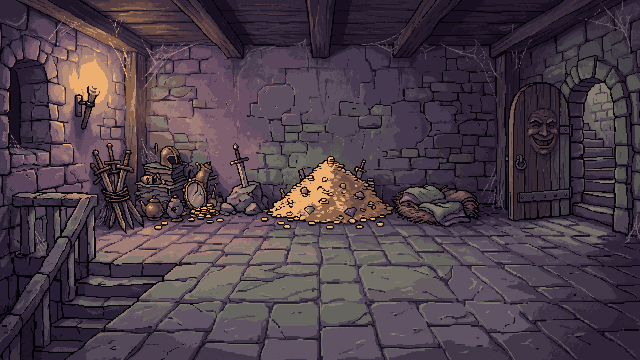
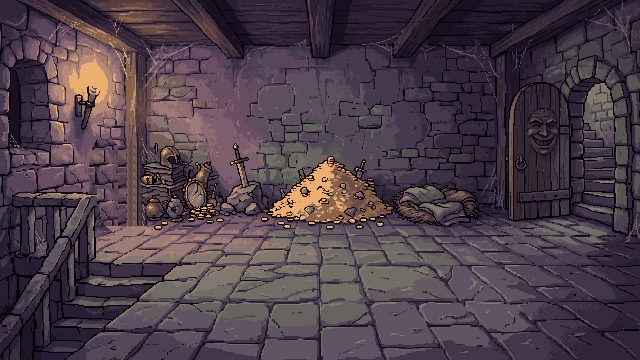
Welt 1: restliche Figuren und Nacharbeiten vor dem Review
Grammophon wieder im Original (Sebastians Wunsch), Wasserschloss bleibt neu.
Gollo, Moderwort, Zeldina, Waldemar: Gang mit schwingendem Saum und gegenläufigen Füßen im Takt des 3D-Gangs.
Toadi: Gang mit Beinwinkeln aus 3D; Schmiede-Ziege und XXL-Ziege: Gang mit vier Beinen.
Abstellkammern: gemaltes Schwerter-Bündel ist jetzt das Prop, dahinter Wand und Pfosten übermalt.
Bergwerk: neue Fackelflammen mit warmem Schein. Zauberwald: Riesenpilze farbiger.
Bildschirmfoto-Referenzen für Prolog und Welt 1 erneuert.

Changed region(s): [[0.125, 0.3667, 0.25, 0.6722]]

diff --git a/docs/offene-punkte.md b/docs/offene-punkte.md
@@ -53,14 +53,14 @@ Jede Änderung, die nach dem Gemini-Bild von Hand oder per Skript gemacht wurde,
 | Taverne | Tresen als Vordergrund-Teil `grafik/props/tresen_vorn.png` (0, 160, 256, 200), Baseline 245, ausgeschnitten über ein Vieleck entlang der hinteren Tresenkante; Humbert steht dahinter (150, 232), Gollo davor (282, 264) | Skript, Layout `vordergrund:` | Kante sauber freistellen; Krüge, Flasche und Schüssel ragen über die Kante und liegen hinter Humbert **Erledigt 14. November 2026: Flaschenhals, Dampf und Krugrand aus dem Hintergrund ins Vordergrund-Teil übernommen; Kante selbst unverändert.** |
 | Luftschloss, `w1_bg_luftschloss_v01.png` | Breitbild aus zwei Gemini-Bildern (`luftschloss_sebastian_links_v1`, `_rechts_v1`), Naht an der Turmkante bei x 640, Boden 40 Pixel überblendet, rechte Hälfte farblich leicht angeglichen (`luftschloss_breit_v1.png`) | Skript | Naht im Boden und in den Wolken bei x 640 nacharbeiten; beide Hälften haben leicht unterschiedlichen Strich **Erledigt 14. November 2026: senkrechte Bodenlinie bei x 637–642 entfernt, Wolkenbank aus sieben Bäuschen über die Naht gelegt (weiß, unten rosa wie links).** |
 | Turmkeller, `w1_bg_turmkeller_v01.png` und `_zu_v01.png` | Beide Fassungen mit gemeinsamer Palette (40 Farben); die Zu-Fassung ist die offene mit eingesetzter Tür (492, 80 bis 628, 232) aus Sebastians zweitem Bild | Skript | Türkante prüfen; gemalte Besen an der Wand gegen die Zauberbesen-Sprites abgrenzen |
-| Smaugis Abstellkammern, `w1_bg_abstellkammern_v01.png` und `_aufgeraeumt_v01.png` | Gemeinsame Palette; in der aufgeräumten Fassung Goldhaufen und Nest (262, 150 bis 478, 232) aus der vollen Fassung eingesetzt; Schwerter-Bündel ist im Kram-Haufen gemalt und liegt zusätzlich als Prop darüber | Skript | Gemaltes Schwerter-Bündel übermalen, damit nach dem Nehmen nichts doppelt ist; Kronleuchter an die Decke hängen |
+| Smaugis Abstellkammern, `w1_bg_abstellkammern_v01.png` und `_aufgeraeumt_v01.png` | Gemeinsame Palette; in der aufgeräumten Fassung Goldhaufen und Nest (262, 150 bis 478, 232) aus der vollen Fassung eingesetzt; Schwerter-Bündel ist im Kram-Haufen gemalt und liegt zusätzlich als Prop darüber | Skript | Gemaltes Schwerter-Bündel übermalen, damit nach dem Nehmen nichts doppelt ist; Kronleuchter an die Decke hängen **Erledigt 14. November 2026: Das gemalte Bündel ist jetzt das Prop selbst (ausgeschnitten, 60×100 an 88, 137), dahinter Steinwand und Pfosten übermalt. Der Kronleuchter hängt bereits am Deckenbalken.** |
 | Nahansichten Hinweiszettel, Zeugnis, Kritzelei | Schrift per Skript in Pixelify Sans (`tools/nahansichten_welt1_schrift.py`), deutsch; Noten im Zeugnis als Ziffern, weil die Felder zu schmal sind; Strichmännchen ohne Nase auf der Kritzelei von Hand gezeichnet | Skript | Handschrift in Aseprite schöner setzen; englische Fassung der Bilder fehlt (Text ist ins Bild gemalt); Max sagt beim Zettel „Stern mit Hut“, gemalt ist ein lächelnder Kessel |
 | Figuren Moderwort, Zeldina, Maklerin, Max als Pilz | Neu umgerechnet ohne Palettenzwang (`--palette keine`), weil Endesga Grün und Violett verschluckt hat; Moderwort aus Sebastians zweiter Fassung (junger Mann, keine Nase) | `figur.py sprite` | Farben auf die Spielpalette bringen, ohne dass Hautgrün und Robenviolett verloren gehen |
 | Deko Welt 1 | Sammelbild geschnitten (`grafik/props/`): Kokosnüsse im Stall (Dorfplatz 345, 224), Socke auf dem Hocker (Klassenzimmer 402, 202), Glasschuh am Kürbisturm (Zauberwald 770, 214), Hufeisen in der Zange auf dem Amboss (Schmiede 262, 194), Kaffeemaschine (Bergwerk); Hammer, Tagebuch, Okarina liegen bereit (Hammer für das Hämmern, die anderen für Thronsaal und Kammern) | Skript `tools/karo_weg.py` (gemaltes Schachbrett entfernen), `figur.py gegenstaende` | Größen und Lage prüfen; Hufeisen-Zange ragt über den Amboss |
 | Niesrosen, Bohnenranke | Niesrosen zu (vor R7) und offen (nach R7) in der Lichtung (714, 256), Bohnenranke nach R8 auf dem Erdfleck (785, 258, 83×258); Rosen nach der Palette rot statt rosa; weiße Flecken in der Ranke durch Nachbarfarbe ersetzt | Layout `vordergrund:` mit `vor:`/`nach:` | Rosen rosa nachfärben; Ranke oben an die Wolkenkante des Luftschlosses anpassen; Wachs- und Aufgeh-Animation fehlen **Rosen rosa: erledigt 14. November 2026 (beide Sprites, Streupixel entfernt). Offen: Ranke an die Wolkenkante, Animationen.** |
 | Smaugis Kram | Icons `gegenstaende/schwerter_buendel`, `fackel_buendel`, `kronleuchter`; Raum-Sprites gleichen Namens in `props/` und sechs Deko-Stücke `props/kram_*` für die Kammer (Raum noch Platzhalter) | `figur.py gegenstaende` | Beim Einbau der Kammer platzieren |
 | Klassenzimmer | Schüler auf dem Besen (`props/schueler_besen.png`, 18×15) fliegt als lebendiger Hintergrund ab und zu rückwärts am linken Fenster vorbei, nur innerhalb der Scheibe (182, 40, 42, 70) gezeichnet | `CQAmbiente`, Baustein `schueler` | Wirkt er hinter dem Glas? Eventuell bläulich tönen |
-| Troll-Brücke | Grammophon und Notenblätter nachgefärbt, Bereich 250, 212 bis 288, 266 | Skript, 6 Zusatzfarben | Grammophon sauber nachzeichnen, goldenes Horn deutlich **Erledigt 14. November 2026: Grammophon neu gezeichnet (Holzkasten auf der Moosinsel, Hals, goldener Trichter mit dunkler Öffnung), alter Trichter übermalt.** |
+| Troll-Brücke | Grammophon und Notenblätter nachgefärbt, Bereich 250, 212 bis 288, 266 | Skript, 6 Zusatzfarben | Grammophon sauber nachzeichnen, goldenes Horn deutlich **Entschieden 14. November 2026: Das Original bleibt; Sebastian fand Kontrast, Farben, Lage und Einbettung besser als zwei neu gezeichnete Fassungen.** |
 | Troll-Brücke | Wasserschloss rosa nachgezeichnet, Bereich 428, 124 bis 448, 140 | Skript, Umriss aus dem Original, 4 Rosatöne | Form des Schlosses von Hand verbessern **Erledigt 14. November 2026: Schloss neu gezeichnet (Mittelturm mit Spitzdach, zwei Seitentürme, Zinnenmauer, Tor; Licht von links).** |
 | Troll-Brücke | Waldemar steht als Platzhalter rechts der Brücke (440, 275) | Layout | Mit echtem Sprite prüfen, ob er Rampe oder Schloss verdeckt |
 | Klassenzimmer, `w1_bg_klassenzimmer_v01.png` | Grundlage: Sebastians Fassung mit Kessel unter dem Fenster und Bänken vor der Tafel (`klassenzimmer_sebastian_v7.png`, aus dem Chat-Bild „Unterricht5“ mit drei Fenstern) | Gemini-Chat, sechs Runden (Aufteilung, Seiten tauschen, Regal leeren, Neuaufteilung, zwei Fenster dazu) | – |
@@ -78,7 +78,7 @@ Jede Änderung, die nach dem Gemini-Bild von Hand oder per Skript gemacht wurde,
 | Zauberwald, `w1_bg_zauberwald_v01.png` | Breitbild 1066×360: rechts Sebastians erste Fassung (`zauberwald_sebastian_v1.jpeg`), links ein tieferer Waldteil (`zauberwald_sebastian_links_v2.jpeg`), zusammengesetzt als `zauberwald_breit_v2.png` | Gemini-Chat: Vorlage mit grauer Fläche ergänzen lassen, dann Boden freigeräumt; Naht um 8 Pixel ausgerichtet, 60 Pixel weich überblendet | Naht im dicken Baum prüfen (Spielpixel um x 421) |
 | Zauberwald | Dicker Baum auf der Naht als Vordergrund-Prop `grafik/props/alter_baum.png` (340, 0, 150, 360), Umriss als Vieleck freigestellt, Baseline am unteren Rand | Skript | Umriss sauber freistellen; prüfen, ob Max dahinter natürlich verschwindet **Erledigt 14. November 2026: Himmel und Hintergrund links und rechts des Stamms bis Zeile 250 entfernt (Kante je Zeile am dunklen Rindenumriss); Farn rechts bleibt.** |
 | Zauberwald | Weggabelung hinter dem dicken Baum (alter Weg zur Brücke) entfernt: Sebastian hat den linken Waldteil in Gemini ohne die Abzweigung neu machen lassen (`zauberwald_sebastian_links_v4.jpeg`); Naht jetzt bei Spielpixel x 609, rechts der Riesenpilze, 60 Pixel überblendet (`zauberwald_breit_v2.png`) | Gemini-Chat | Naht neben den Riesenpilzen prüfen **Erledigt 14. November 2026: gerade Kante des Himmelsflecks bei x 611 (Zeilen 66–111) wellig aufgelöst.** |
-| Zauberwald | Riesenpilze nachgefärbt, Bereich 479, 70 bis 639, 262 | Skript, 8 Zusatzfarben | Hüte bunter, besonders rosa und violett |
+| Zauberwald | Riesenpilze nachgefärbt, Bereich 479, 70 bis 639, 262 | Skript, 8 Zusatzfarben | Hüte bunter, besonders rosa und violett **Erledigt 14. November 2026: rote und rosa Töne der Hüte kräftiger und Richtung Rosa verschoben.** |
 | Zauberwald | Leuchtpilze nachgefärbt, Bereich 499, 200 bis 639, 262 | Skript, 4 Zusatzfarben | Leuchten und Schein |
 | Zauberwald | Lieferkarren und Ketchup nachgefärbt, Bereich 809, 175 bis 894, 250 | Skript, 4 Zusatzfarben | Rot des Karrens |
 | Zauberwald | Ketchup ausgeschnitten als `grafik/props/ketchup.png` (841, 209, 11, 30); Stelle mit dem Karrenstück 12 Pixel links daneben überdeckt | Skript, rechteckig ohne Freistellen | Sprite freistellen, übermalte Karrenseite prüfen **Ketchup freigestellt 14. November 2026 (Flasche von Hand abgegrenzt); Karrenseite darunter passt.** |
@@ -87,7 +87,7 @@ Jede Änderung, die nach dem Gemini-Bild von Hand oder per Skript gemacht wurde,
 | Zauberwald | Raum hat 47 statt 32 Farben; Waldemars Platz bei Rätsel 7 im Raumskript auf (824, 300) verschoben | Folge des Nachfärbens und der Verbreiterung | Palette angleichen |
 | Alle breiten Räume | Kamera zeigte links graue Fläche und erreichte das rechte Drittel nie (Popochiu rechnet Räume mittig um den Bildschirm); behoben in `skripte/objekte/cq_raum.gd` (setup_camera) | Code | Dorfplatz und Agora mit allen Ausgängen durchlaufen |
 | Wasserschloss, `w1_bg_wasserschloss_v01.png` | Grundlage: Sebastians erste Fassung (`wasserschloss_sebastian_v1.jpeg`), ohne Nachfärben | Gemini-Chat, eine Runde | Max auf dem Steg ist größer als das Tor (Tiefe 0.45): Größenverhältnis prüfen; Schwan noch Platzhalter im Wasser |
-| Goblin-Bergwerk, `w1_bg_bergwerk_v01.png` | Breitbild 1280×360 aus Sebastians Fassung mit geschlossener Rune-Tür (`bergwerk_sebastian_zu_v1.jpeg`), ohne Nachfärben | Gemini-Chat, zwei Runden (Bild, Tür schließen) | Fackelflammen sind nach dem Umrechnen klein und blass; Raum insgesamt dunkel |
+| Goblin-Bergwerk, `w1_bg_bergwerk_v01.png` | Breitbild 1280×360 aus Sebastians Fassung mit geschlossener Rune-Tür (`bergwerk_sebastian_zu_v1.jpeg`), ohne Nachfärben | Gemini-Chat, zwei Runden (Bild, Tür schließen) | Fackelflammen sind nach dem Umrechnen klein und blass; Raum insgesamt dunkel **Fackeln erledigt 14. November 2026: neue Flammen (Gelb, Orange, heller Kern) mit warmem Schein in zwei Stufen. Raum insgesamt dunkel: offen.** |
 | Goblin-Bergwerk | Offene Rune-Tür als Prop `grafik/props/rune_tuer_offen.png` (1070, 80, 100, 160) aus der offenen Fassung (`bergwerk_sebastian_offen_v1.jpeg`), rechteckig ausgeschnitten; `room_bergwerk.gd` blendet sie nach Rätsel 10 ein | Skript | Ränder freistellen (violett getöntes Felsstück am Rand), violetten Lichtschein auf dem Boden ergänzen **Erledigt 14. November 2026: nur Rahmen und Gang bleiben violett, rechts davon Fels in Hintergrundfarben, Schein am Rahmen in drei Stufen. Offen: Lichtschein auf dem Boden (müsste über das Rechteck hinaus).** |
 | Gegenstände Welt 1 | Fläschchen (klein und groß) als Inventarbilder `grafik/gegenstaende/flasche_klein.png` und `flasche_gross.png` aus den Flaschen-Kopien im Klassenzimmer; Ei als Inventarbild und Szenenbild (`grafik/props/ei.png`, Korb in der Taverne) aus Sebastians Ei-Bogen | `tools/figur.py gegenstaende` | Fläschchen heben sich im Inventar wenig vom dunklen Grund ab; Größe des Eis im Korb prüfen |
 | Nahansicht Märchen-Satzung, `grafik/nahansichten/maerchen_satzung.png` | Leeres Schild aus Sebastians Gemini-Fassung (Gravuren in zweiter Runde entfernt), Satzungstext per Skript in Pixelify Sans als eingeschnitzte Schrift (dunkler Schnitt, helle Kante); `tools/godot_raeume.py` nimmt jetzt echte Nahansichten aus `grafik/nahansichten/` | Gemini-Chat, zwei Runden; Skript | Schrift von Hand nachschnitzen (Zeilen liegen teils auf Brettfugen, „§“ sieht in der Schrift wie „&“ aus); englische Fassung fehlt |
